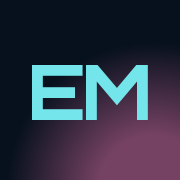
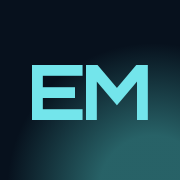
feat(scene): replace ringed planet with a rocky alien world
Drop the three rings and gas-giant banding that read as Saturn. The
surface shader now builds continents, teal shallows, rust and sand land,
lavender peaks and polar caps from the same noise, with thinner clouds.
Add a small orbiting moon, and match the CSS poster glow and the preview
images to the new teal palette.

diff --git a/src/scene/shaders.ts b/src/scene/shaders.ts
@@ -51,24 +51,29 @@ export const planetFragmentShader = /* glsl */ `
   }
 
   void main() {
-    vec3 point = vPosition * 3.4;
-    float drift = uTime * 0.025;
-    float turbulence = fbm(point * 1.7 + vec3(drift, -drift * 0.45, drift * 0.2));
-    float fineTurbulence = fbm(point * 5.2 - vec3(drift * 1.5, 0.0, drift));
-    float bands = sin((vPosition.y + turbulence * 0.16) * 24.0);
-    float bandMask = smoothstep(-0.72, 0.72, bands);
+    vec3 point = vPosition * 2.6;
+    float drift = uTime * 0.008;
+    float continents = fbm(point + vec3(drift, 0.0, -drift));
+    float detail = fbm(point * 4.2 + vec3(3.7, 1.3, 5.9));
+    float elevation = continents * 0.8 + detail * 0.2;
 
-    vec3 deep = vec3(0.055, 0.035, 0.16);
-    vec3 violet = vec3(0.28, 0.10, 0.42);
-    vec3 copper = vec3(0.72, 0.23, 0.20);
-    vec3 highlight = vec3(1.0, 0.49, 0.23);
-    vec3 color = mix(deep, violet, bandMask);
-    color = mix(color, copper, smoothstep(0.42, 0.78, turbulence) * 0.72);
-    color += highlight * smoothstep(0.7, 1.0, fineTurbulence) * 0.2;
+    float seaLevel = 0.47;
+    vec3 deepSea = vec3(0.02, 0.10, 0.17);
+    vec3 shallows = vec3(0.05, 0.38, 0.42);
+    vec3 sand = vec3(0.80, 0.52, 0.30);
+    vec3 rust = vec3(0.50, 0.20, 0.17);
+    vec3 peaks = vec3(0.72, 0.62, 0.82);
 
-    float storm = smoothstep(0.76, 0.96, fbm(point * 2.8 + vec3(1.0, 4.0, -2.0)));
-    float stormShape = smoothstep(0.25, 0.85, 1.0 - abs(vPosition.x * 0.75 + vPosition.y * 0.35));
-    color += vec3(0.92, 0.19, 0.36) * storm * stormShape * 0.42;
+    vec3 sea = mix(deepSea, shallows, smoothstep(seaLevel - 0.14, seaLevel, elevation));
+    vec3 land = mix(sand, rust, smoothstep(seaLevel, seaLevel + 0.22, elevation));
+    land = mix(land, peaks, smoothstep(seaLevel + 0.2, seaLevel + 0.32, elevation));
+    vec3 color = mix(sea, land, step(seaLevel, elevation));
+
+    float shore = smoothstep(0.035, 0.0, abs(elevation - seaLevel));
+    color += vec3(0.25, 0.9, 0.85) * shore * 0.35;
+
+    float cap = smoothstep(0.8, 0.93, abs(vPosition.y) + (detail - 0.5) * 0.14);
+    color = mix(color, vec3(0.86, 0.92, 0.96), cap);
 
     float light = 0.42 + 0.58 * max(dot(vNormal, normalize(vec3(-0.55, 0.65, 0.75))), 0.0);
     gl_FragColor = vec4(color * light, 1.0);
@@ -102,7 +107,7 @@ export const cloudFragmentShader = /* glsl */ `
     vec3 point = vPosition * 6.0 + vec3(uTime * 0.035, -uTime * 0.012, 0.0);
     float clouds = noise(point) * 0.62 + noise(point * 2.1) * 0.38;
     float density = smoothstep(0.54, 0.72, clouds);
-    gl_FragColor = vec4(vec3(0.86, 0.42, 0.62), density * 0.22);
+    gl_FragColor = vec4(vec3(0.92, 0.96, 1.0), density * 0.22);
   }
 `;
 

diff --git a/src/scene/planet.tsx b/src/scene/planet.tsx
@@ -63,7 +63,7 @@ function PlanetClouds() {
 
 export function Planet({ progressRef }: SceneProps) {
   const planet = useRef<THREE.Group>(null);
-  const rings = useRef<THREE.Group>(null);
+  const moonOrbit = useRef<THREE.Group>(null);
   const atmosphere = useMemo(
     () =>
       new THREE.ShaderMaterial({
@@ -86,10 +86,7 @@ export function Planet({ progressRef }: SceneProps) {
     planet.current.position.y = THREE.MathUtils.lerp(-3.6, -1.6, progress);
     planet.current.scale.setScalar(THREE.MathUtils.lerp(0.65, 1.8, progress));
     planet.current.rotation.y = elapsed * 0.024;
-    if (rings.current) {
-      rings.current.rotation.z = -0.18 + Math.sin(elapsed * 0.08) * 0.025;
-      rings.current.rotation.y = elapsed * 0.012;
-    }
+    if (moonOrbit.current) moonOrbit.current.rotation.y = elapsed * 0.05;
   });
 
   return (
@@ -100,31 +97,14 @@ export function Planet({ progressRef }: SceneProps) {
         <sphereGeometry args={[8, 64, 48]} />
         <primitive object={atmosphere} attach="material" />
       </mesh>
-      <group ref={rings} rotation={[0.56, 0.18, -0.18]}>
-        <mesh rotation={[Math.PI / 2, 0, 0]}>
-          <torusGeometry args={[10.4, 0.22, 12, 128]} />
+      <group ref={moonOrbit} rotation={[0.3, 0, 0.12]}>
+        <mesh position={[18, 2.5, 0]}>
+          <sphereGeometry args={[1.6, 32, 24]} />
           <meshStandardMaterial
-            color="#d16a9d"
-            emissive="#6d285e"
-            emissiveIntensity={1.4}
-            roughness={0.45}
-            metalness={0.35}
-            transparent
-            opacity={0.76}
+            color="#9b97b3"
+            emissive="#2a2840"
+            roughness={1}
           />
-        </mesh>
-        <mesh rotation={[Math.PI / 2, 0, 0]}>
-          <torusGeometry args={[11.35, 0.08, 8, 128]} />
-          <meshBasicMaterial
-            color="#66d4e9"
-            transparent
-            opacity={0.7}
-            blending={THREE.AdditiveBlending}
-          />
-        </mesh>
-        <mesh rotation={[Math.PI / 2, 0, 0]}>
-          <torusGeometry args={[12.05, 0.04, 8, 128]} />
-          <meshBasicMaterial color="#ffc166" transparent opacity={0.58} />
         </mesh>
       </group>
       <pointLight

diff --git a/src/app/globals.css b/src/app/globals.css
@@ -128,8 +128,8 @@ a {
   background:
     radial-gradient(
       circle at 82% 96%,
-      rgba(209, 106, 157, 0.55) 0 7%,
-      rgba(109, 40, 94, 0.4) 13%,
+      rgba(72, 178, 176, 0.5) 0 7%,
+      rgba(34, 94, 112, 0.4) 13%,
       transparent 32%
     ),
     url("/stars.svg"), linear-gradient(#020711, #07111d);
